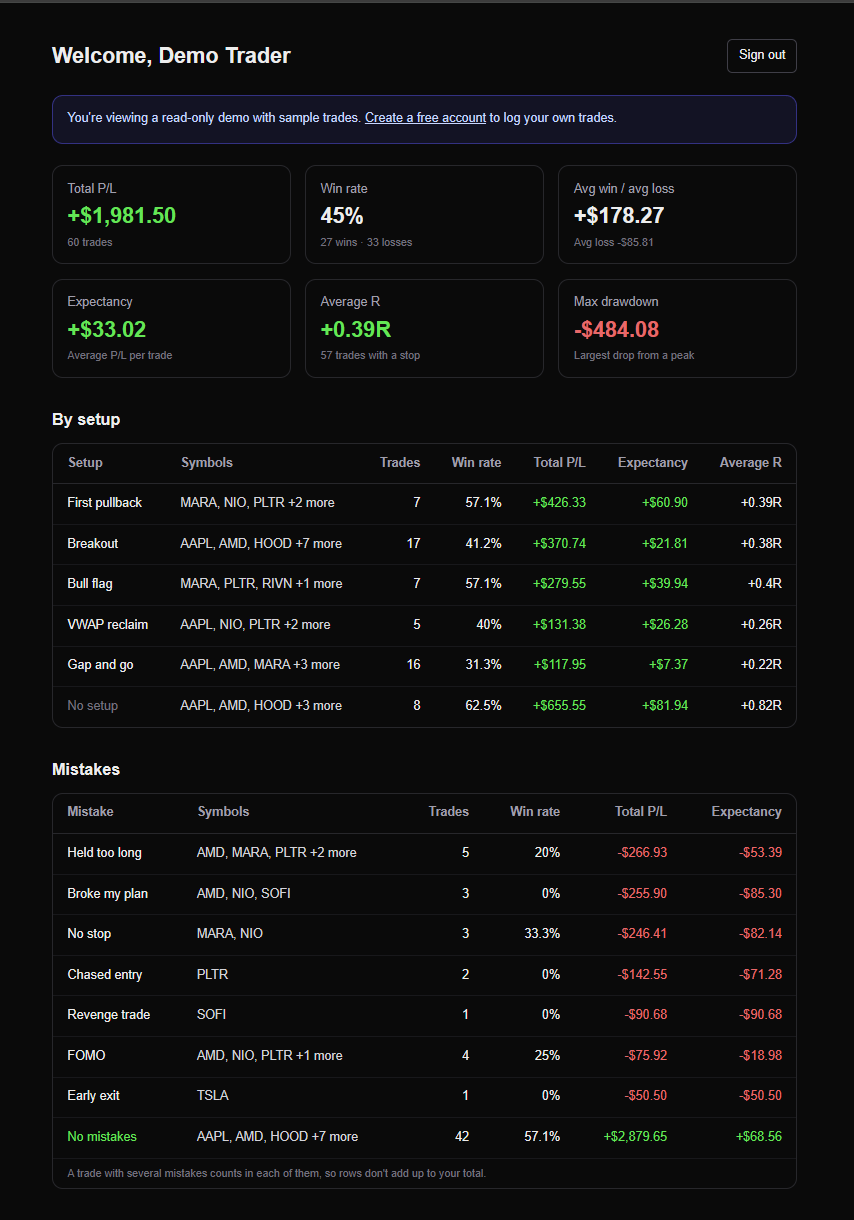
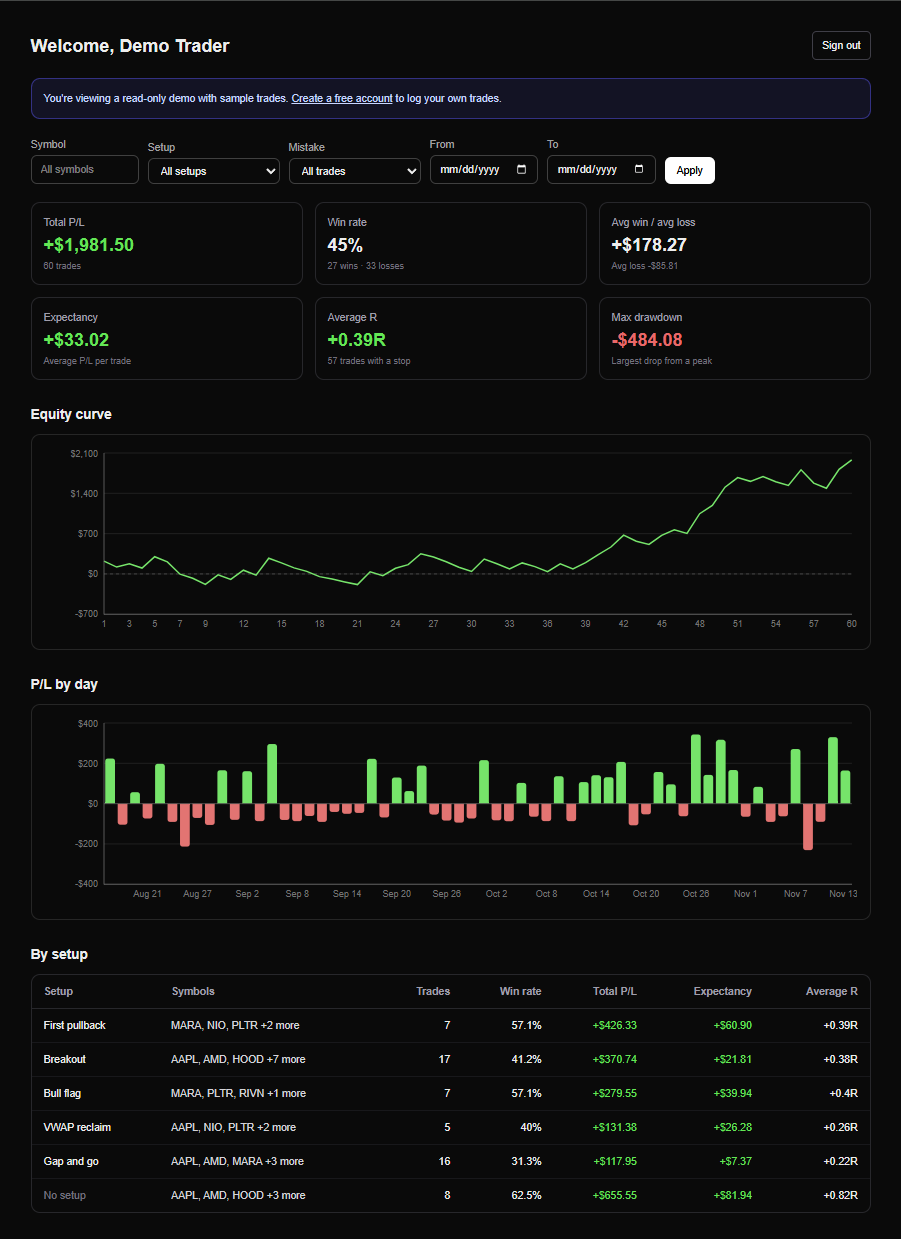
docs: update README for v1 (#47)
* docs: update dashboard screenshot with charts

* docs: update README for v1 features

diff --git a/README.md b/README.md
@@ -8,20 +8,24 @@ A full-stack trading journal for day traders built with **Next.js, TypeScript, P
 
 Click **Try the demo** on the sign-in page to explore a read-only account with 60 sample trades.
 
-![TradeLens dashboard showing performance stats, results by setup, and the cost of each trading mistake](docs/tradelens-dashboard.png)
+![TradeLens dashboard with filters, performance stats, an equity curve, P/L by day and results by setup](docs/tradelens-dashboard.png)
 
 ## Features
 
 - **Secure accounts** with Better Auth: email and password sign-up, hashed passwords, and sessions stored in PostgreSQL.
 - **Protected dashboard:** the server checks the session before rendering, so signed-out visitors never receive the page.
-- **Trade logging:** add, edit and delete trades, with server-side validation (Zod) and an error under each field.
-- **Exact P/L:** all money math uses decimals instead of floating point, so `0.3 − 0.1` is exactly `0.2`, and fees can include fractions of a cent.
+- **Trade logging:** add, edit and delete trades, with server-side validation (Zod) and an error under each field. Stops are checked too: below the entry for a long, above it for a short.
+- **Exact P/L:** all money math uses decimals instead of floating point, so `0.3 - 0.1` is exactly `0.2`, and fees can include fractions of a cent.
 - **R-multiples:** each trade's result in units of planned risk, for longs and shorts. Trades without a stop show "—" instead of a misleading 0.
 - **Performance stats:** total P/L, win rate, average win vs. average loss, expectancy, average R and max drawdown.
+- **Charts:** an equity curve of the running P/L, and P/L by day with green and red bars.
 - **Setups and mistakes:** label each trade with a setup and the mistakes made, then see stats by setup and what each mistake costs, with the symbols involved.
+- **Filters:** by symbol, setup, mistake and date range. Filters live in the URL, so a filtered view can be bookmarked, and they update the stats, charts and tables together.
+- **CSV import:** upload a file of trades, with every row validated by the same rules as the form. If any row has an error, nothing is imported, and each error shows its row number. Uploading the same file twice skips trades that already exist.
 - **One-click demo:** a read-only demo account with 60 realistic trades. Changes are blocked on the server, not just hidden in the interface.
 - **Data isolation:** every query is scoped to the signed-in user. Editing or deleting another user's trade is impossible (IDOR-safe), and their trade pages return 404.
-- **Market time:** trades are stored in UTC and shown in Eastern Time, while the forms use the trader's local time.
+- **Market time:** trades are stored in UTC and shown in Eastern Time. Dates for filters, daily P/L and CSV import are Eastern market dates, including on daylight saving days.
+- **Works on phones:** the dashboard fits small screens, and wide tables scroll inside their own box.
 - **Two-step delete** (Delete → Confirm) to prevent accidental deletes.
 
 ## Trading Metrics
@@ -40,22 +44,22 @@ Every metric is covered by unit tests, including longs, shorts, fees, break-even
 
 ## Tech Stack
 
-- **Frontend:** Next.js 16 (App Router, Server Components), React 19, TypeScript, Tailwind CSS
-- **Backend:** Next.js Server Actions and Route Handlers
+- **Frontend:** Next.js 16 (App Router, Server Components), React 19, TypeScript, Tailwind CSS, Recharts
+- **Backend:** Next.js Server Actions and Route Handlers, Papa Parse for CSV files
 - **Database:** PostgreSQL on Neon, Prisma 7 with the `pg` driver adapter
 - **Auth:** Better Auth (email and password)
 - **Validation:** Zod
-- **Testing & CI:** Vitest (35 unit tests), ESLint, TypeScript, GitHub Actions on every pull request
+- **Testing & CI:** Vitest (92 unit tests), Playwright (7 end-to-end tests on desktop and mobile), ESLint, TypeScript, GitHub Actions on every pull request
 - **Hosting:** Vercel (a preview deployment for every pull request, production on every merge to `main`)
 
 ## How It Works
 
 ```
 Browser ──▶ Next.js on Vercel (iad1) ──▶ Prisma ──▶ PostgreSQL on Neon (us-east-1)
-                │
-                ├─ Server Components  →  check the session, read the user's trades
-                ├─ Server Actions     →  validate with Zod, add / edit / delete trades
-                └─ /api/auth/*        →  Better Auth sign-up, sign-in, sign-out
+                 │
+                 ├─ Server Components  →  check the session, read and filter the user's trades
+                 ├─ Server Actions     →  validate with Zod, add / edit / delete / import trades
+                 └─ /api/auth/*        →  Better Auth sign-up, sign-in, sign-out
 ```
 
 All database access runs on the server, and every query includes the signed-in user's ID. The app server and the database run in the same region, so each query avoids a cross-country round trip.
@@ -106,11 +110,23 @@ Open http://localhost:3000/sign-up to create an account.
 
 ### Run Tests
 
-```bash
+## Run Tests
+
+Unit tests:
+
+```
 npm test
 ```
 
-The tests cover P/L for longs and shorts, fees, R-multiples (including trades without a stop), performance stats, max drawdown with out-of-order trades, and stats by setup and by mistake. CI runs them, plus lint, typecheck and a production build, on every pull request.
+They cover P/L for longs and shorts, fees, R-multiples (including trades without a stop), performance stats, max drawdown, the equity curve, daily P/L, filters, CSV parsing (including Eastern Time and daylight saving), duplicate detection and trade validation.
+
+End-to-end tests (the first run downloads Chromium with `npx playwright install chromium`):
+
+```
+npm run test:e2e
+```
+
+They open a real browser on desktop and phone screens, sign in to the demo, use the filters, and check that the demo is read-only and the page fits small screens. CI runs lint, typecheck, unit tests and a production build on every pull request.
 
 ## API
 
@@ -132,13 +148,16 @@ Trades are created, updated and deleted through Next.js Server Actions rather th
 - **CI catches what my laptop hides.** My first CI run failed with `Cannot find name 'LayoutProps'`: the type existed in my local `.next` folder but not on a clean machine. I added `next typegen` before the typecheck, and later ran `prisma generate` on install for the same reason.
 - **Environment variables belong to each environment.** Sign-in worked locally but failed on the preview deployment. The logs showed a "default secret" error and then a connection to `127.0.0.1`, which told me the secret and the database URL were only set for Production. Since then, I check the preview deployment before every merge.
 - **Money needs exact math.** In JavaScript, `0.3 − 0.1` is `0.19999999999999998`, so prices are stored as `Decimal` in PostgreSQL and all P/L math uses `Prisma.Decimal`. A unit test makes sure it stays that way.
+- **Measure instead of guessing.** On phones, the dashboard scrolled sideways, and fixing the obvious causes didn't help. I measured the page width in Chrome DevTools, then hid each section one at a time until the page fit. The last cause was a screen-reader-only label: it used `position: absolute` and escaped the table's scroll box, because absolute elements are only clipped by a box that is `relative`.
 
 ## Future Improvements
 
-- Filters by date, symbol, setup and tag
-- Charts: equity curve and P/L by day or week
-- Broker CSV import
-- End-to-end tests with Playwright
+- Import broker exports, which list individual fills instead of whole trades
+- Undo an import
+- Run the end-to-end tests in CI, with a separate Neon database branch
+- P/L by week and by month
+- Custom mistake tags and a page to manage setups
+- Quick date presets like "This week" and "This month"
 
 ## Disclaimer
 
